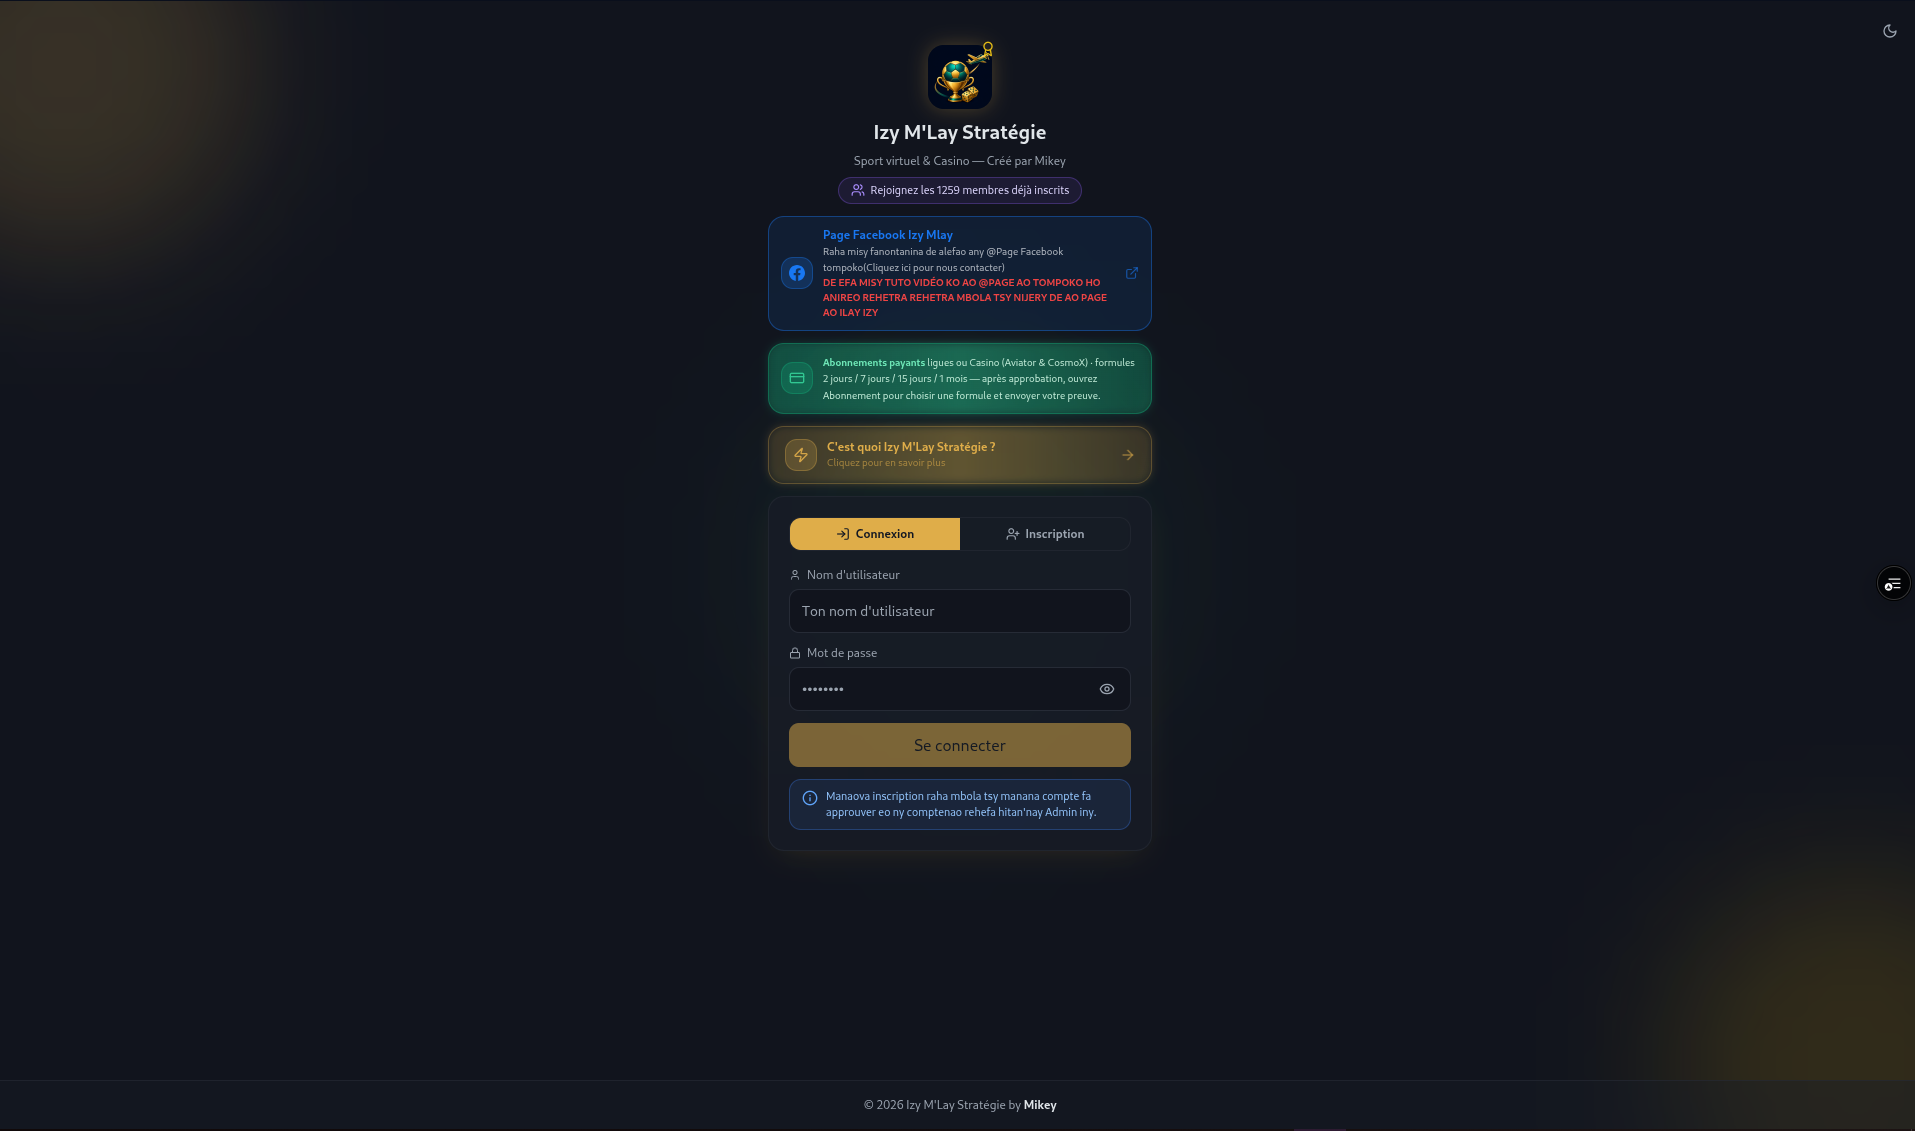
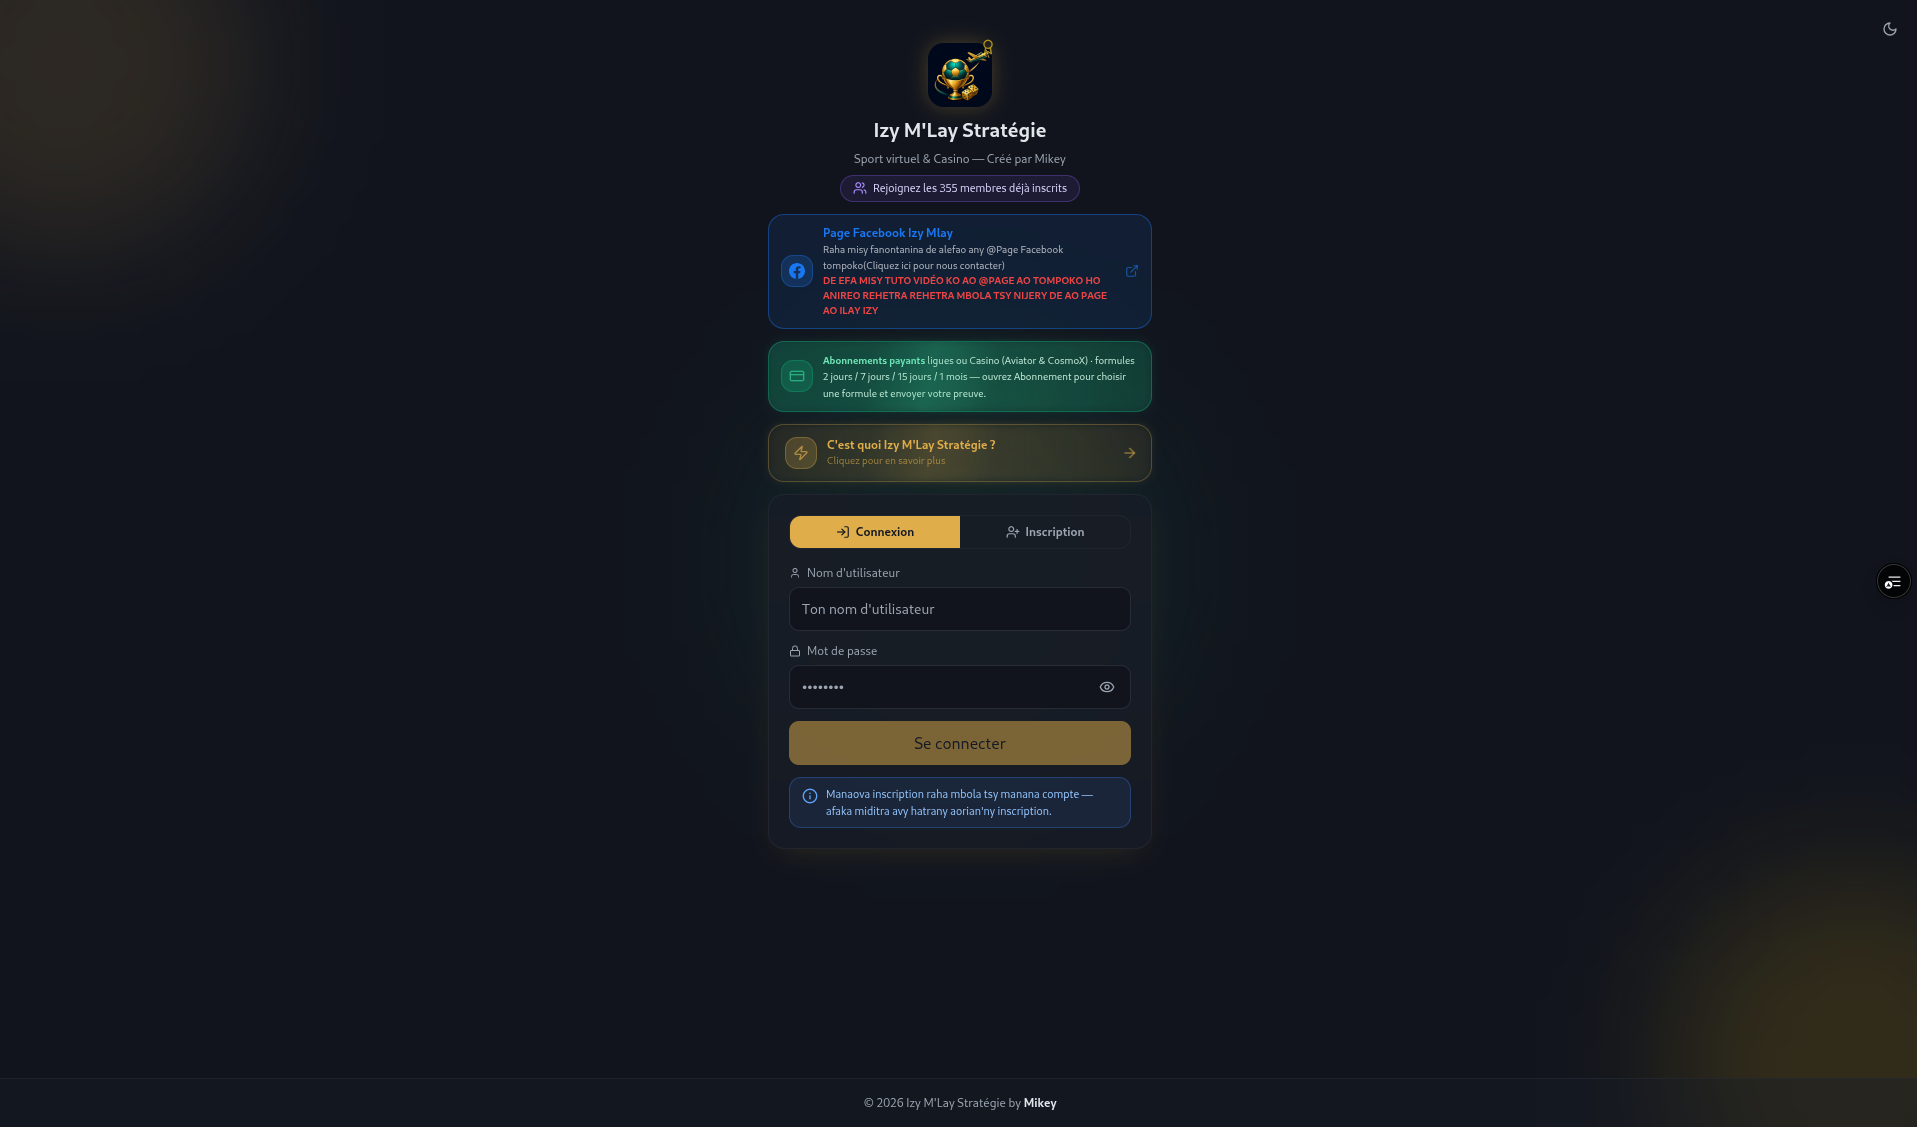
Update Izy M'Lay copy, features, and preview image

diff --git a/data/projects.ts b/data/projects.ts
@@ -240,8 +240,8 @@ export const projects: Project[] = [
       fr: "Izy M'Lay Stratégie",
     },
     description: {
-      en: "Web platform for virtual sports and casino strategies, with paid subscriptions, admin-managed access, and real-time round data via Cloudflare Workers and Supabase.",
-      fr: "Plateforme web de stratégies sport virtuel et casino, avec abonnements payants, accès géré par l'administrateur, et récupération de données de rounds en temps réel via Cloudflare Workers et Supabase.",
+      en: "Web platform for virtual sports and casino strategies, with paid subscriptions, staff-managed payment activation, and real-time round data via Cloudflare Workers and Supabase.",
+      fr: "Plateforme web de stratégies sport virtuel et casino, avec abonnements payants, activation des paiements gérée par le staff, et récupération de données de rounds en temps réel via Cloudflare Workers et Supabase.",
     },
     projectScope: "personal",
     problem: {
@@ -249,29 +249,33 @@ export const projects: Project[] = [
       fr: "Les utilisateurs avaient besoin d'une plateforme centralisée pour accéder aux stratégies, gérer leurs abonnements en toute sécurité, et suivre les rounds de sport virtuel en live sans exposer le trafic API sensible.",
     },
     solution: {
-      en: "A React and TypeScript web app with secure accounts, subscription access, and live round updates for virtual sports leagues, powered by Supabase and Cloudflare Workers.",
-      fr: "Une application web React et TypeScript avec comptes sécurisés, accès par abonnement, et mises à jour en direct des rounds pour les ligues de sport virtuel, grâce à Supabase et Cloudflare Workers.",
+      en: "A React and TypeScript web app with instant account access, subscription-gated features, and live round updates for virtual sports leagues, powered by Supabase and Cloudflare Workers.",
+      fr: "Une application web React et TypeScript avec accès immédiat au compte, fonctionnalités liées à l'abonnement, et mises à jour en direct des rounds pour les ligues de sport virtuel, grâce à Supabase et Cloudflare Workers.",
     },
     features: [
       {
-        en: "Login and registration with admin approval",
-        fr: "Connexion et inscription avec validation admin",
+        en: "Instant login and registration",
+        fr: "Connexion et inscription immédiates",
       },
       {
-        en: "Paid subscriptions (Leagues & Casino)",
-        fr: "Abonnements payants (Ligues et Casino)",
+        en: "Paid subscriptions (Leagues, Casino & Combo)",
+        fr: "Abonnements payants (Ligues, Casino et Combo)",
       },
       {
         en: "Aviator and CosmoX strategy access",
         fr: "Accès aux stratégies Aviator et CosmoX",
       },
       {
+        en: "Built-in tutorials and group chat",
+        fr: "Tutoriels intégrés et chat de groupe",
+      },
+      {
         en: "Real-time round data via Cloudflare Worker",
         fr: "Données de rounds en temps réel via Cloudflare Worker",
       },
       {
-        en: "Supabase auth, database and caching",
-        fr: "Auth, base de données et cache avec Supabase",
+        en: "Supabase database, auth flow and caching",
+        fr: "Base de données, comptes et cache avec Supabase",
       },
     ],
     image: "/assets/ims.png",
